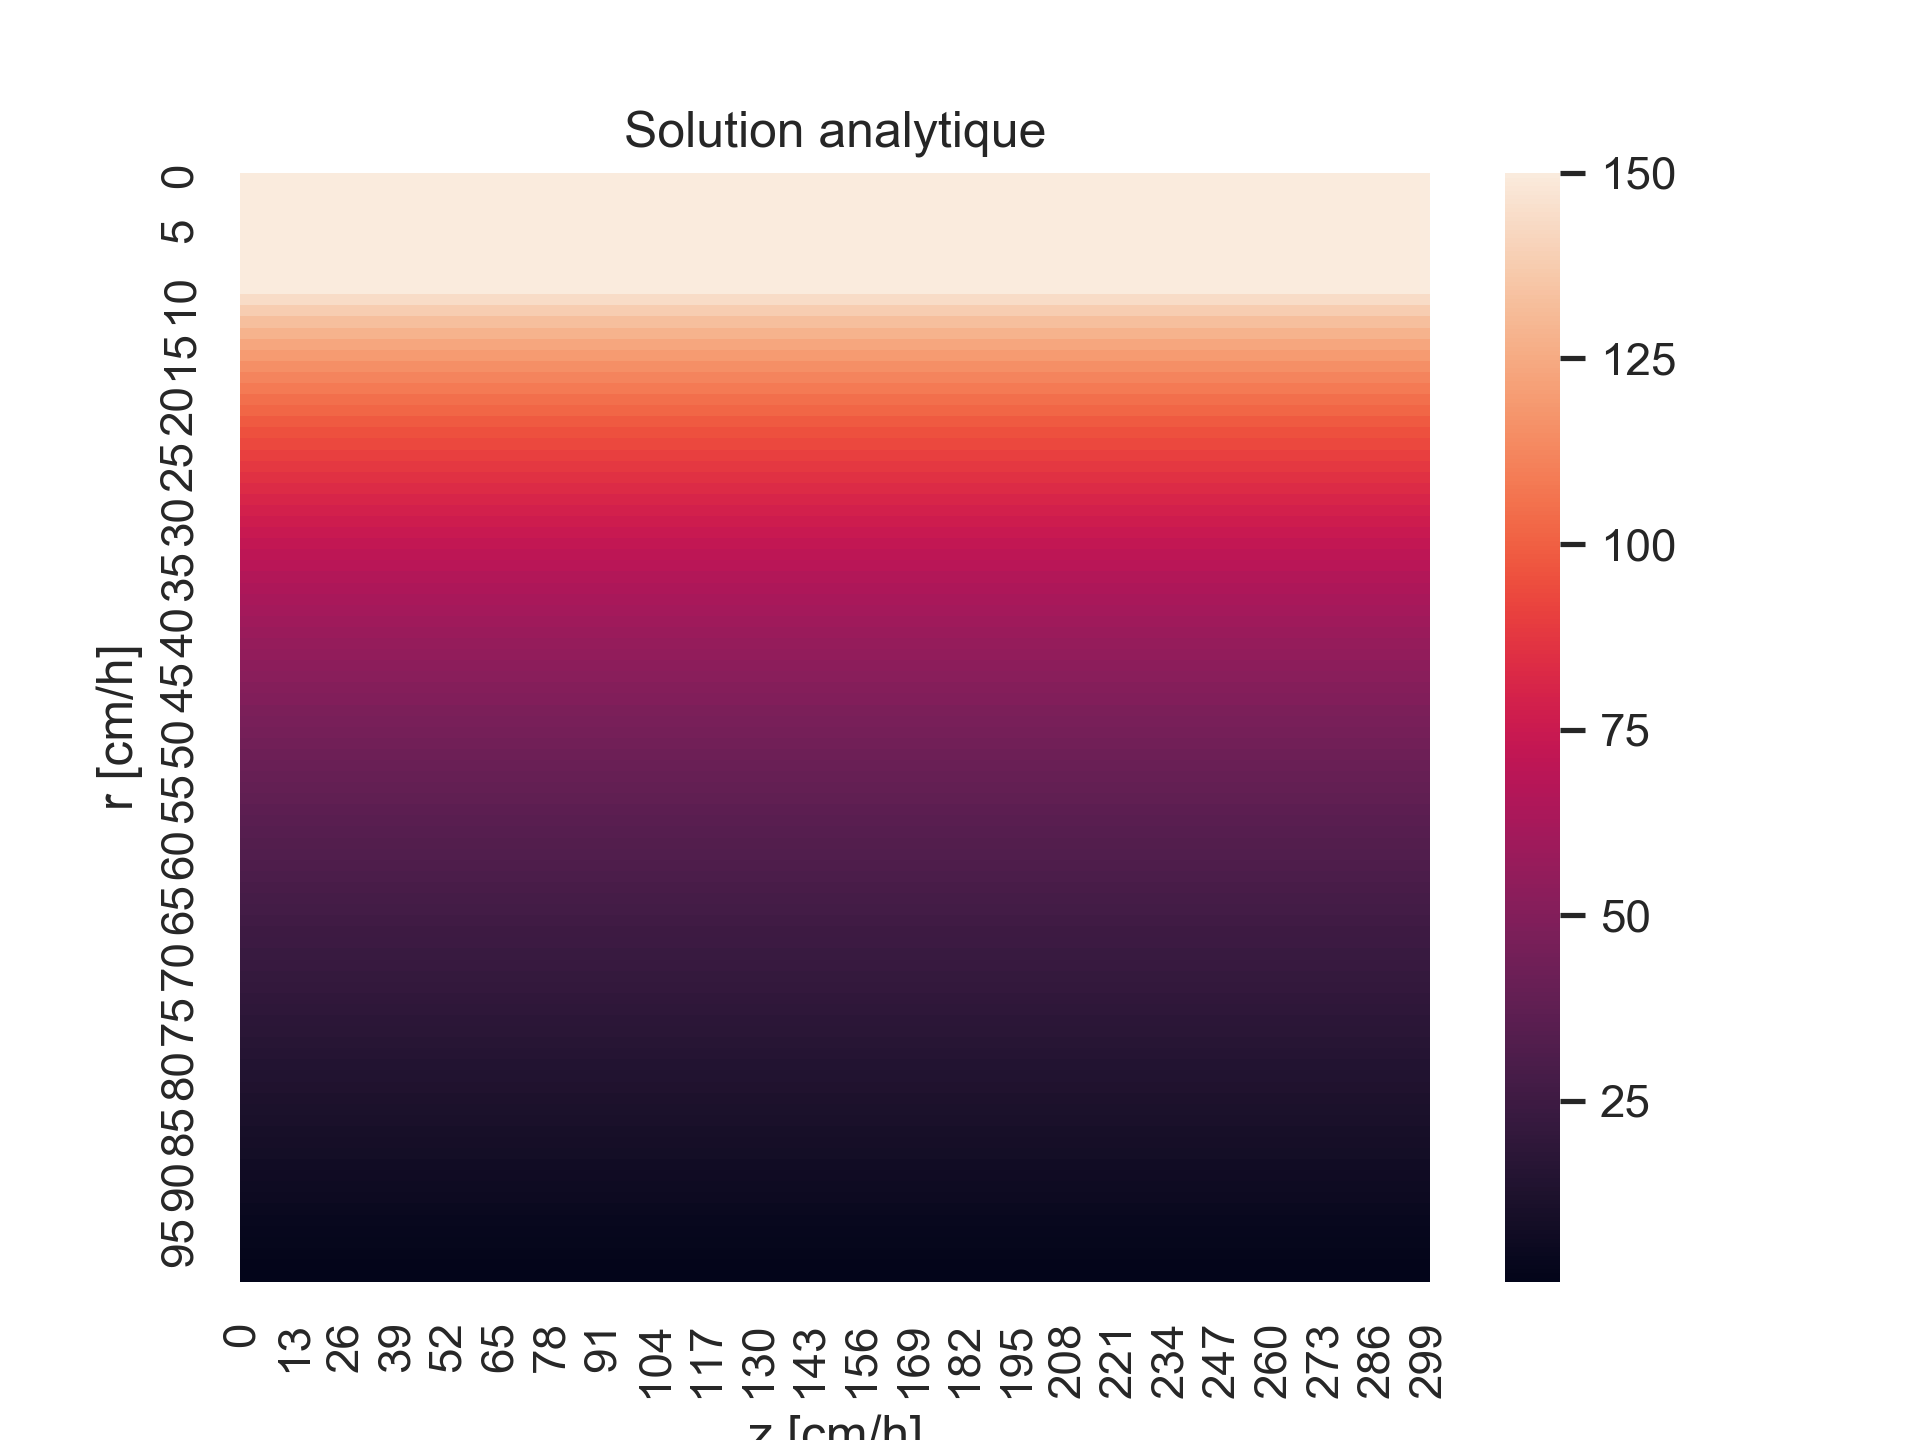
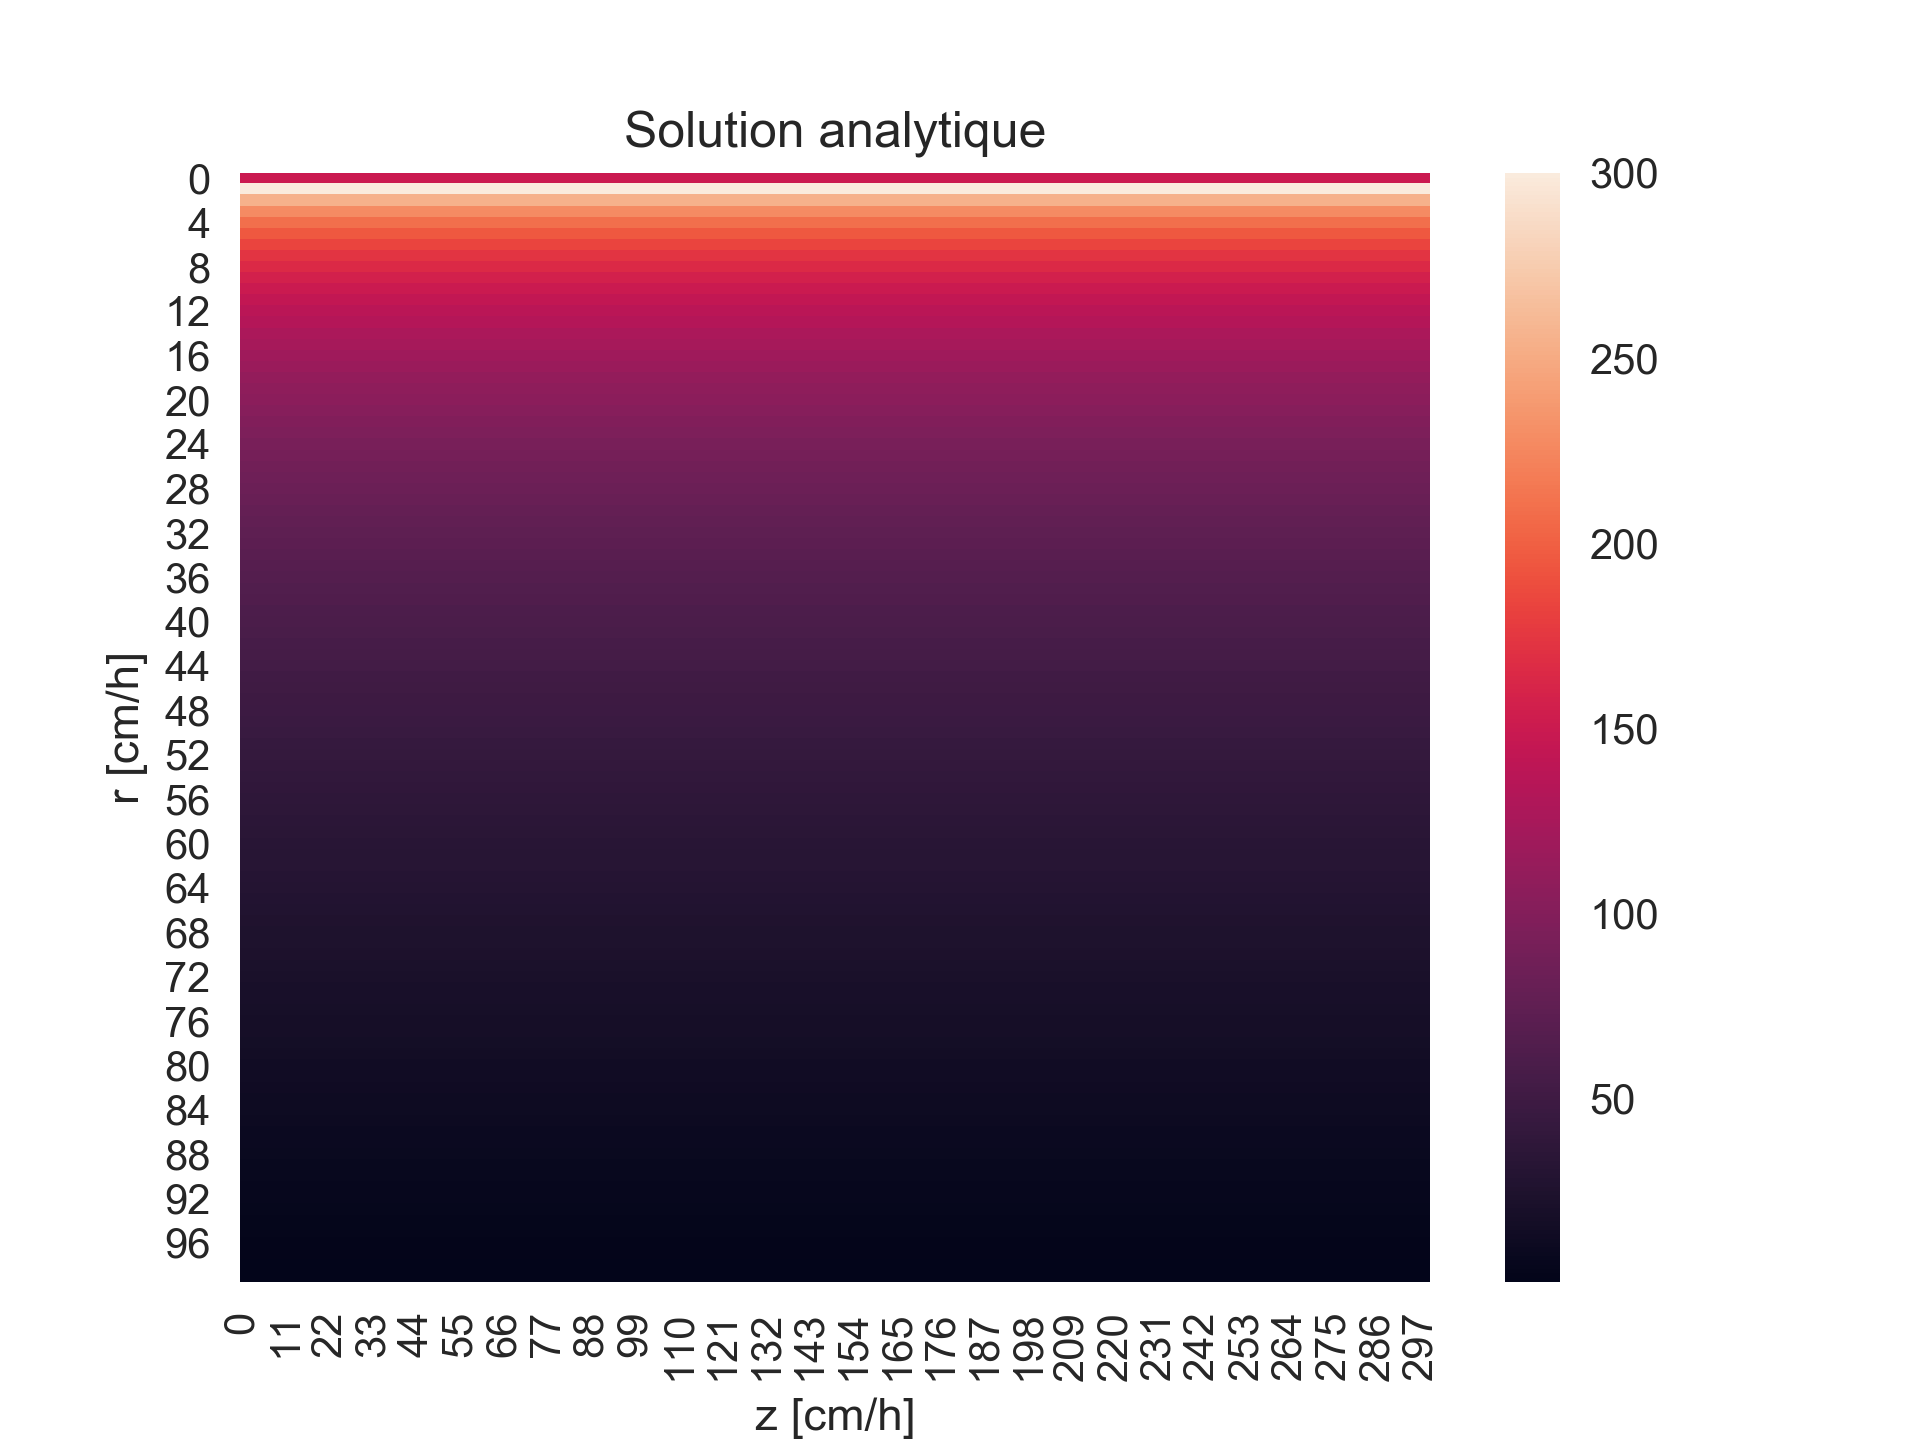
tanné

diff --git a/Question2b.py b/Question2b.py
@@ -13,7 +13,7 @@ def solution_analytique(grille_dimensions: (int, int), h: float):
         ligne = []
         for j in range(grille_dimensions[1]):
             vi = v(i*h, j*h)
-            ligne.append(min(vi if vi != np.inf else 150, 150))
+            ligne.append(vi if vi != np.inf else 150)
         grille.append(ligne)
 
     grille = np.array(grille)
@@ -25,7 +25,7 @@ def solution_analytique(grille_dimensions: (int, int), h: float):
     plt.ylabel("r [cm/h]")
     plt.title("Solution analytique")
     plt.savefig(f"Figures/heatmap_2b_analytique.png", dpi=300)
-    # plt.show()
+    plt.show()
 
 
 if __name__ == '__main__':
@@ -57,6 +57,4 @@ if __name__ == '__main__':
     relax(-1, verbose=False, affichage=False)
     relax.afficher_carte_de_chaleur()
     relax.afficher_etat()
-    relax.afficher_differences_en_fct_iteration()
-    relax.afficher_temps_en_fct_iteration()
 
